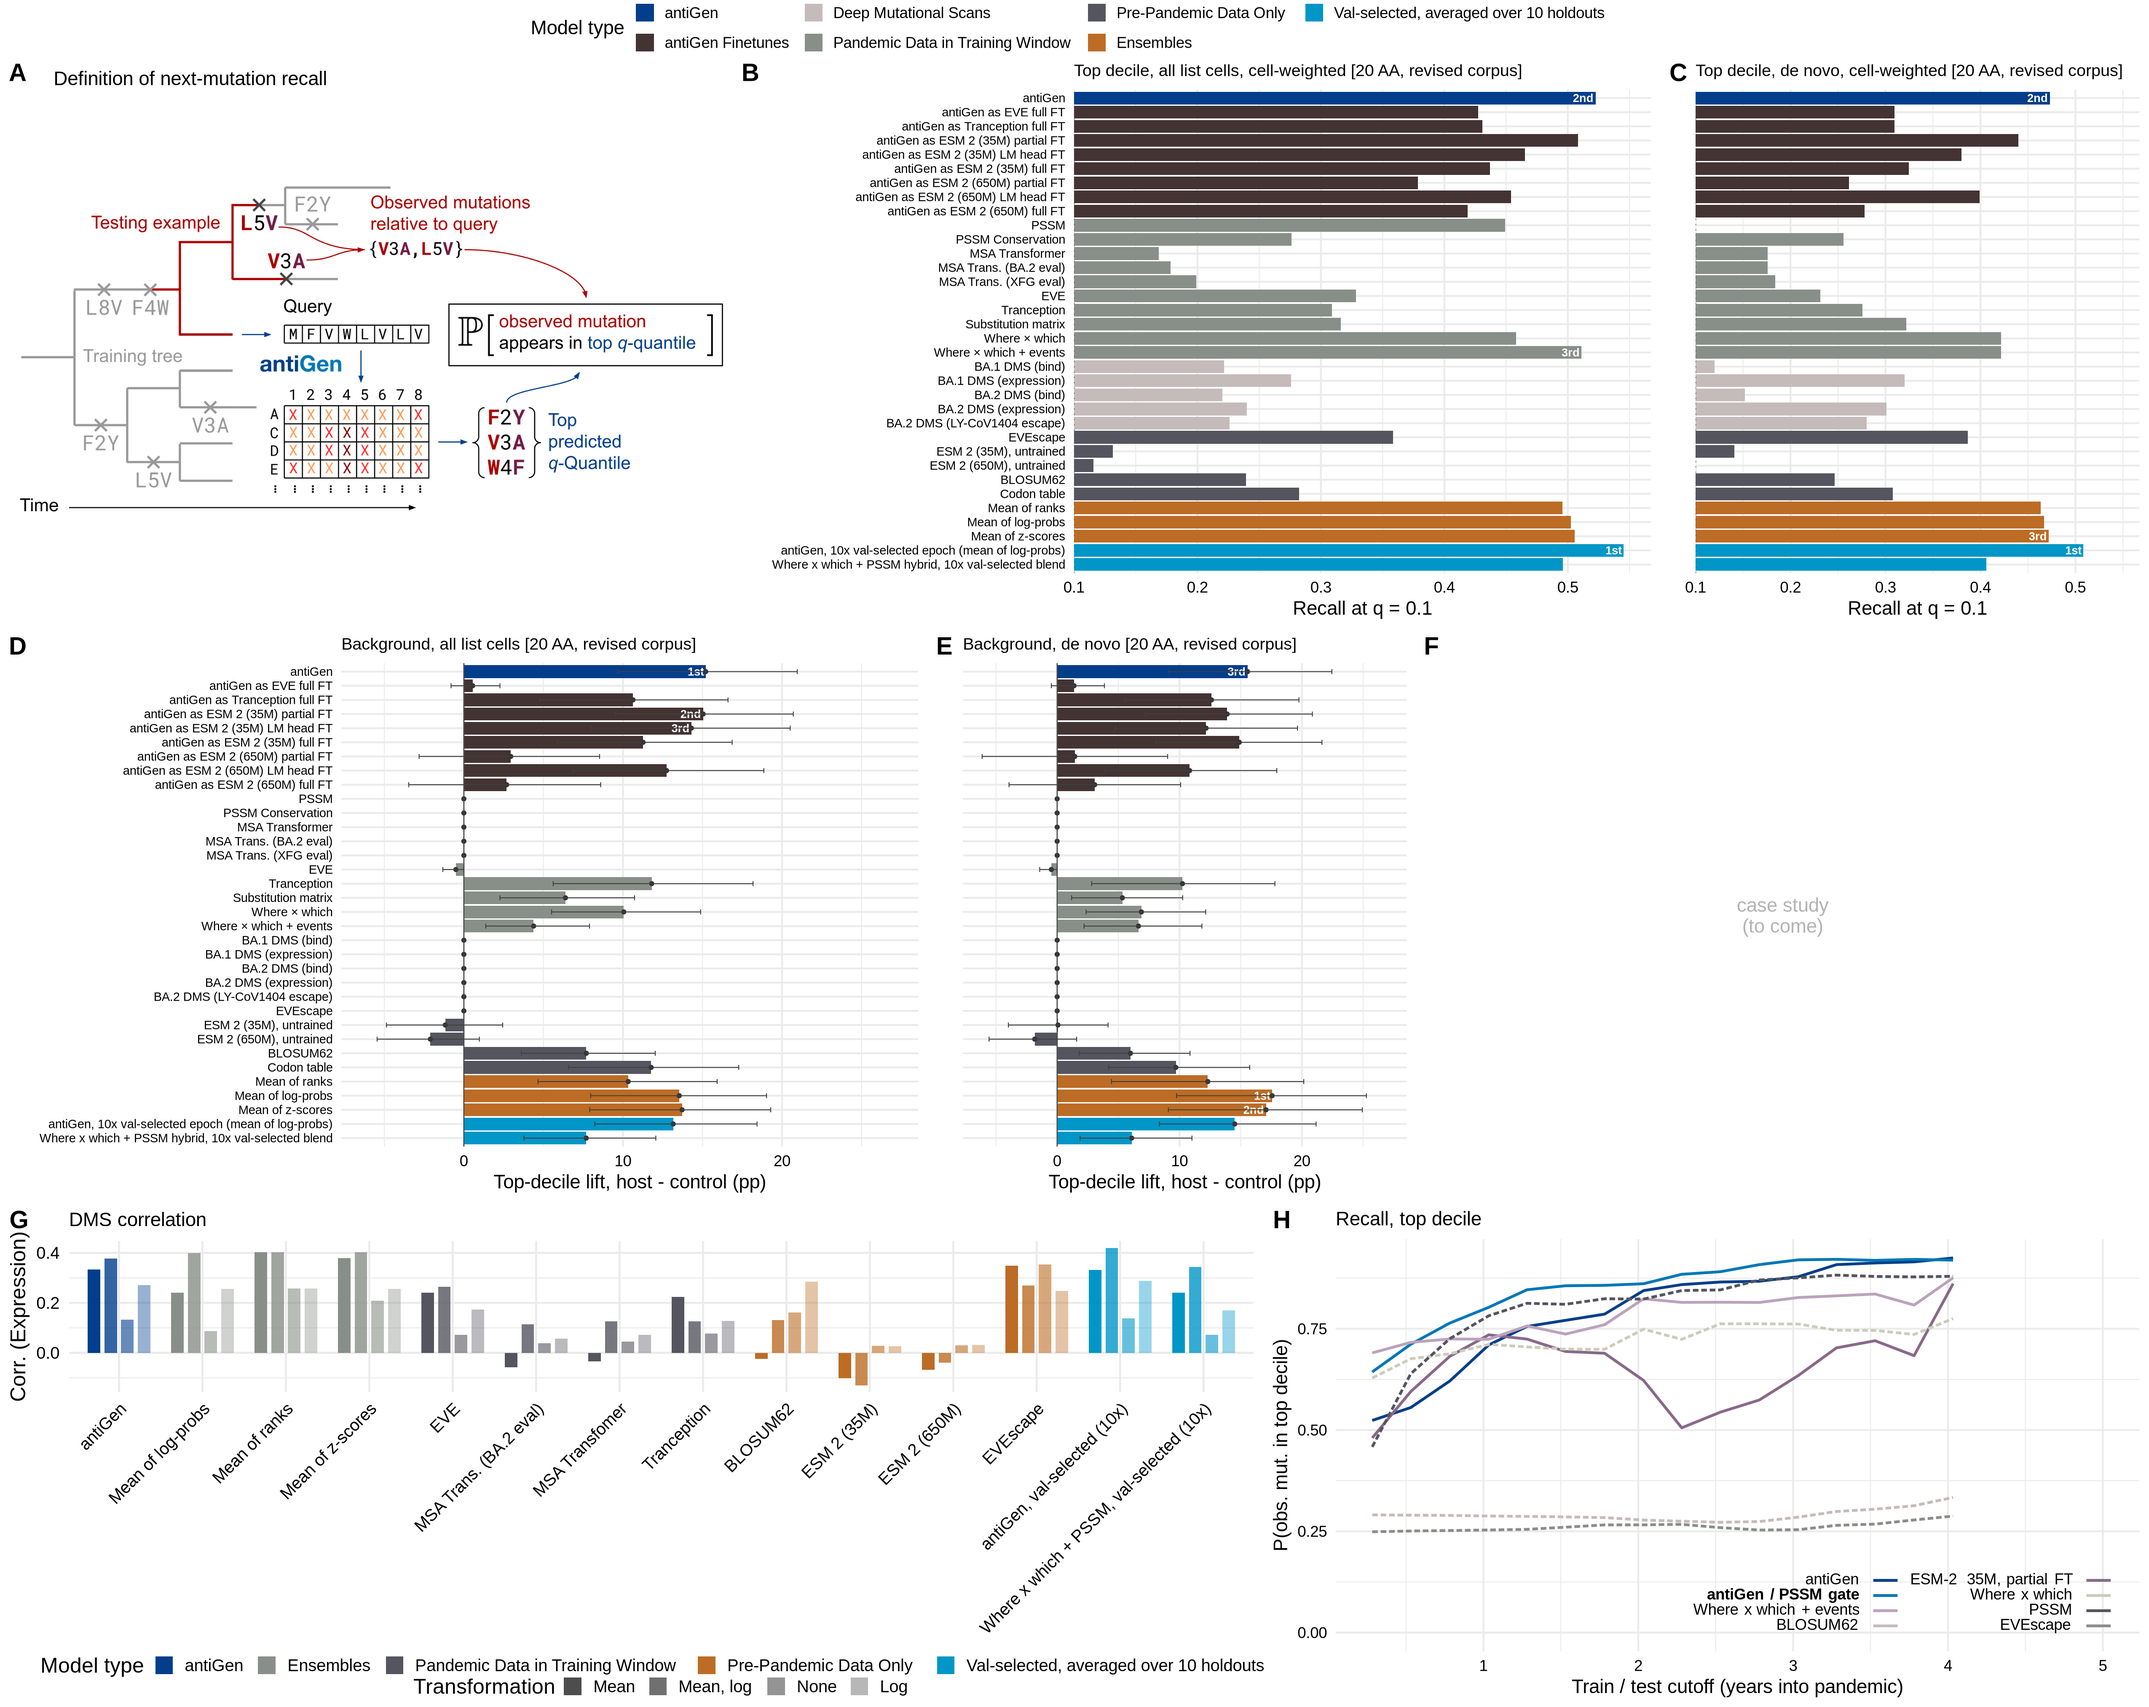
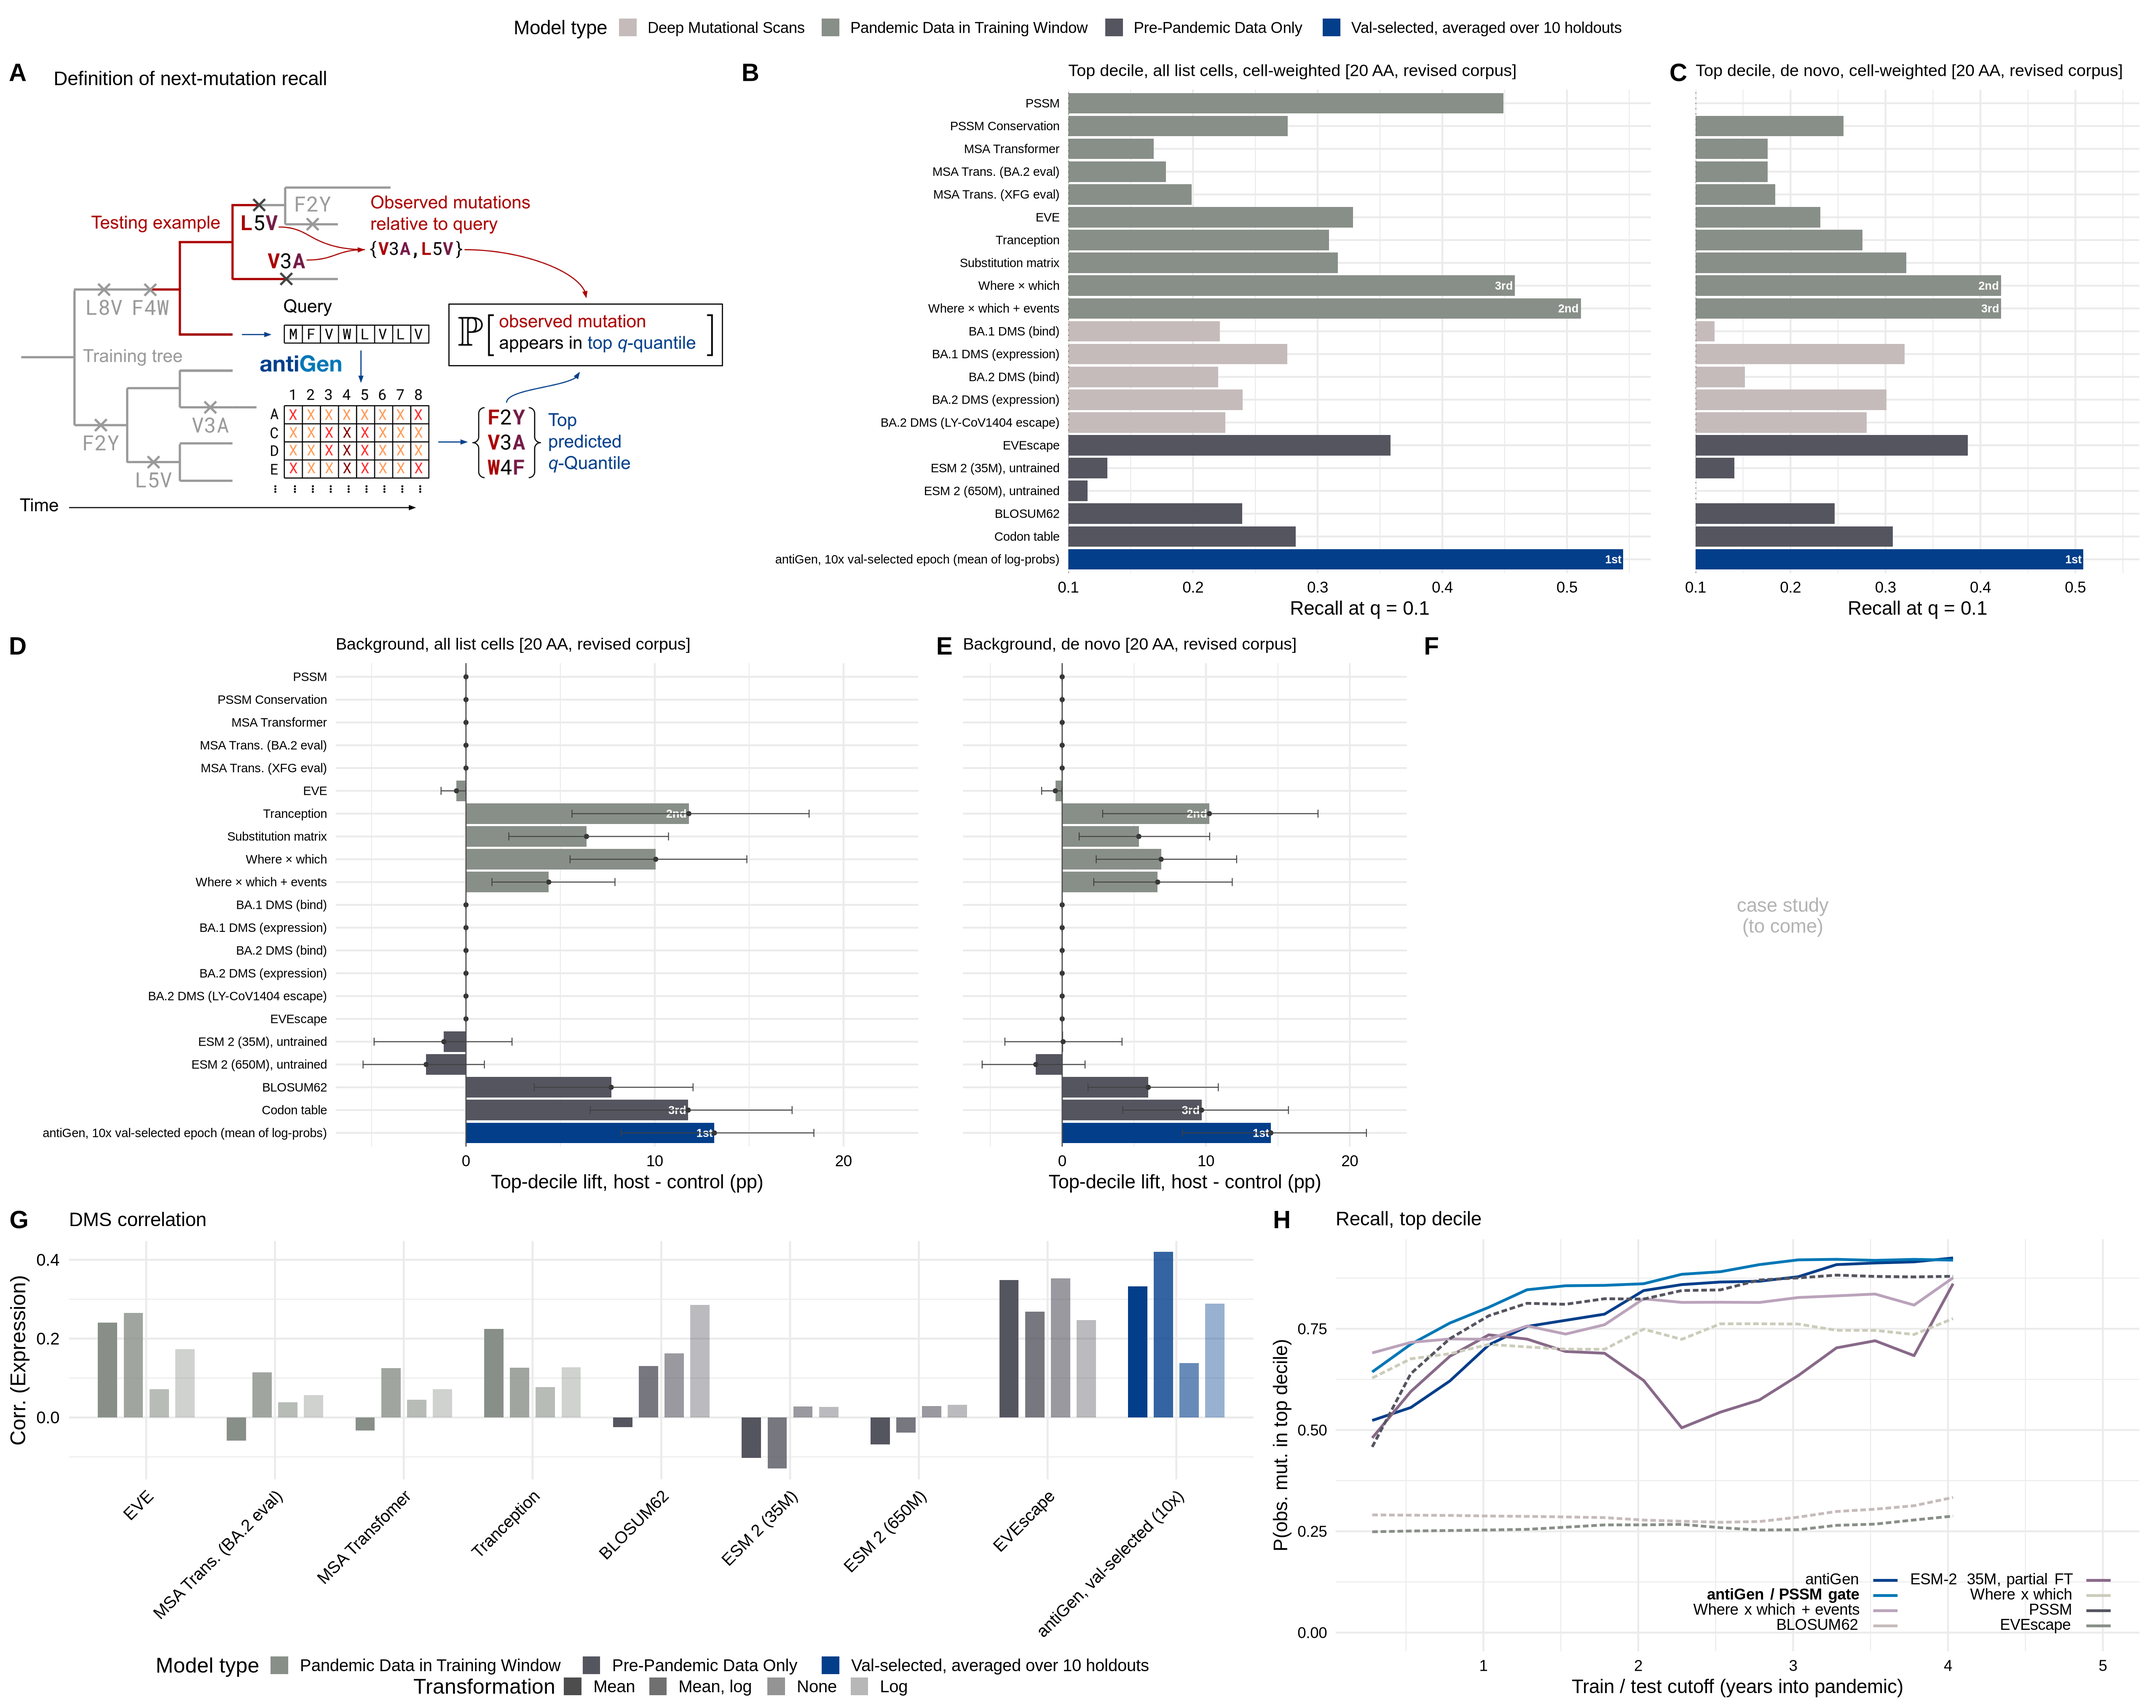
Prune sc2_results_revised to the requested roster
Drops the three plain mean rules (orange) and the fine-tune group (brown) from
every panel, drops the base antiGen rung from all but panel H, drops the
where x which + PSSM hybrid, and draws the surviving antiGen 10x val-selected
rule in antiGen's dark blue.

Three options set in the exporters did nothing, all for one reason: the wrappers
call options() themselves and are sourced after, so the wrapper's value wins.
What works is reaching past the option -- GROUP_COLORS and GROUP_PALETTE are read
at call time by the panel builders, so reassigning them after the source and then
calling the builder takes effect. legend_grob is not a builder but a value
constructed during the source, so it has to be rebuilt or its key disagrees with
the bars beneath it.

coguk.ensemble naming one of five rules drew it as "Ensemble 8a91fb" in the
orange Ensembles group -- the group being pruned -- because both the label and
group defaults are guarded on the sidecar having the same row count as the
selection. ensemble_labels and ensemble_groups have to be set alongside it.

The legend is rebuilt with drop = TRUE over the groups the pruned panels carry;
the drawer's drop = FALSE left keys for antiGen and antiGen Finetunes with
nothing beneath them.

sc2.dms_drop is new: EXCLUDED_MODELS applies to performance_by_x only and names
raw ids, while the DMS frame carries display labels by then.

NOTES s85.

diff --git a/experiments/multitree/NOTES.md b/experiments/multitree/NOTES.md
@@ -10304,3 +10304,58 @@ both inventory changes.
   `panels_sc2_export.R` -- new.
 * `antiGen-figures/figures/fig2_sc2_benchmarks.R` -- `wxw_dirichlet` in the inventory;
   `RUN_TAG_TO_MODEL` applied to `dms_long`.
+
+## 85. Pruning `sc2_results_revised`, and three options that were silently overridden
+(2026-10-27)
+
+On request: drop the orange (the three plain mean rules) and brown (the fine-tune
+group) models, drop the base antiGen rung from every panel but H, drop the
+`where x which + PSSM` hybrid, and draw the surviving `antiGen, 10x val-selected` rule
+in antiGen's dark blue.
+
+### A wrapper's own `options()` beats the caller's
+
+Three separate attempts to steer a drawer from the exporter did nothing, all for one
+reason: `fig_coguk_list_aa20.R` and `fig_sc2_aa20.R` each call `options()` THEMSELVES,
+and the exporter sources them AFTER setting its own. Last write wins, and the wrapper
+is last.
+
+* `coguk.ensemble_colors` -> the val-selected rule stayed cyan.
+* `sc2.ensemble_colors` -> the same rule stayed cyan on the DMS panel.
+* `coguk.title_suffix` -> the suffix stayed (harmless; the fix for the clipped title
+  turned out to be the figure's width).
+
+What works is reaching past the option: `GROUP_COLORS` and `GROUP_PALETTE` are read at
+CALL time by the panel builders, so reassigning them after the source and then calling
+the builder takes effect. The DMS panel is REBUILT rather than reused for that reason.
+
+**`legend_grob` is not a builder.** It is constructed during the source, so a recolour
+after the fact leaves the legend key disagreeing with the bars under it. It has to be
+rebuilt from the same expression.
+
+### A subset selection silently loses its labels and its group
+
+`coguk.ensemble = "ens_8a91fbbf88"` alone drew the rule as **"Ensemble 8a91fb" in the
+orange Ensembles group** -- the very group being pruned. Both the label and the group
+default are guarded on `nrow(ensemble_figure_rows.tsv) == length(ENSEMBLE)`, so naming
+one of five rules fails both guards and falls back. `coguk.ensemble_labels` and
+`coguk.ensemble_groups` have to be set alongside it.
+
+### Legend keys for groups that are no longer drawn
+
+The drawer builds its legend with `drop = FALSE` so its full roster always shows every
+group. With antiGen and antiGen Finetunes pruned from every panel that left two keys
+with nothing beneath them; the rebuilt legend uses `drop = TRUE` over the groups the
+pruned panels actually carry.
+
+### `sc2.dms_drop`
+
+`EXCLUDED_MODELS` could not serve: it is applied to `performance_by_x` only and names
+raw ids, while the DMS frame carries display labels by then. New option, empty by
+default.
+
+### Code
+
+* `antiGen-figures/figures/fig2_sc2_benchmarks.R` -- `sc2.dms_drop`.
+* `antiGen-figures/figures/panels_coguk_export.R`, `panels_sc2_export.R` -- the
+  pruning, the recolour-after-source, the rebuilt legend.
